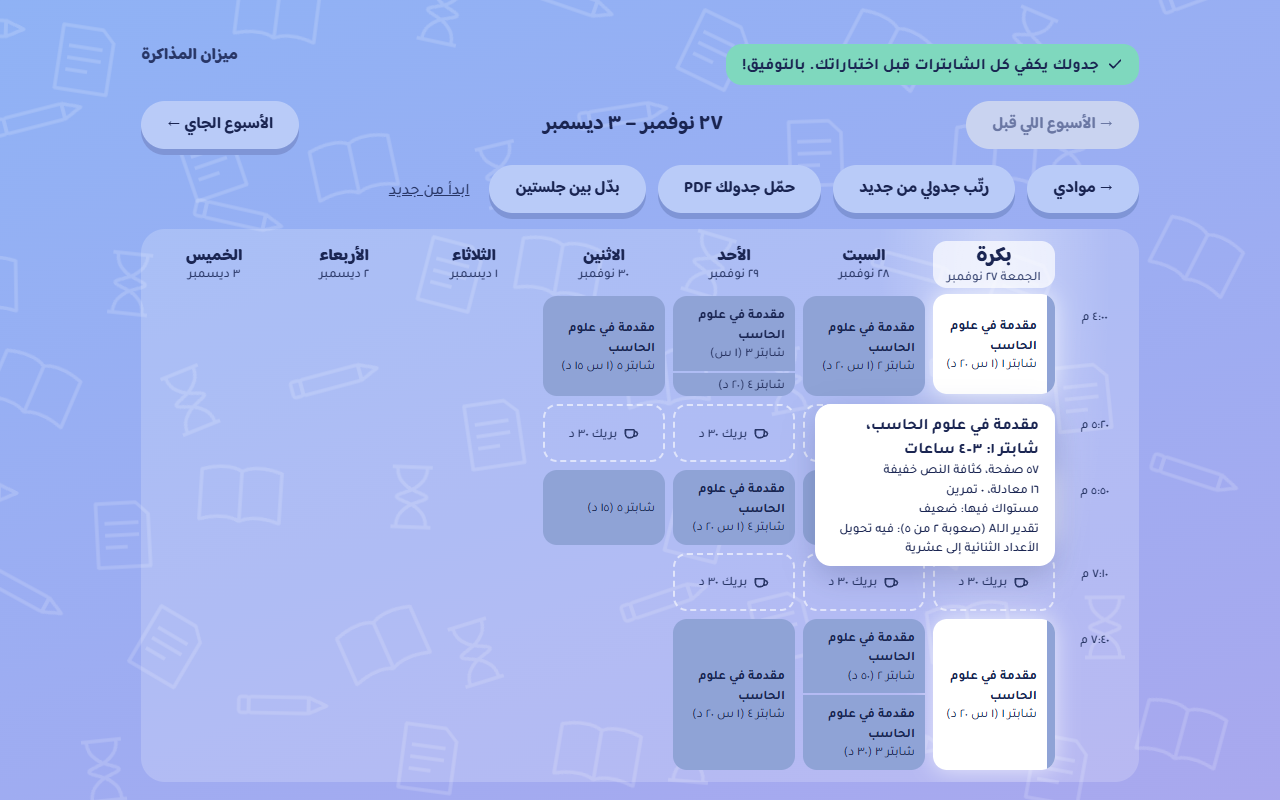
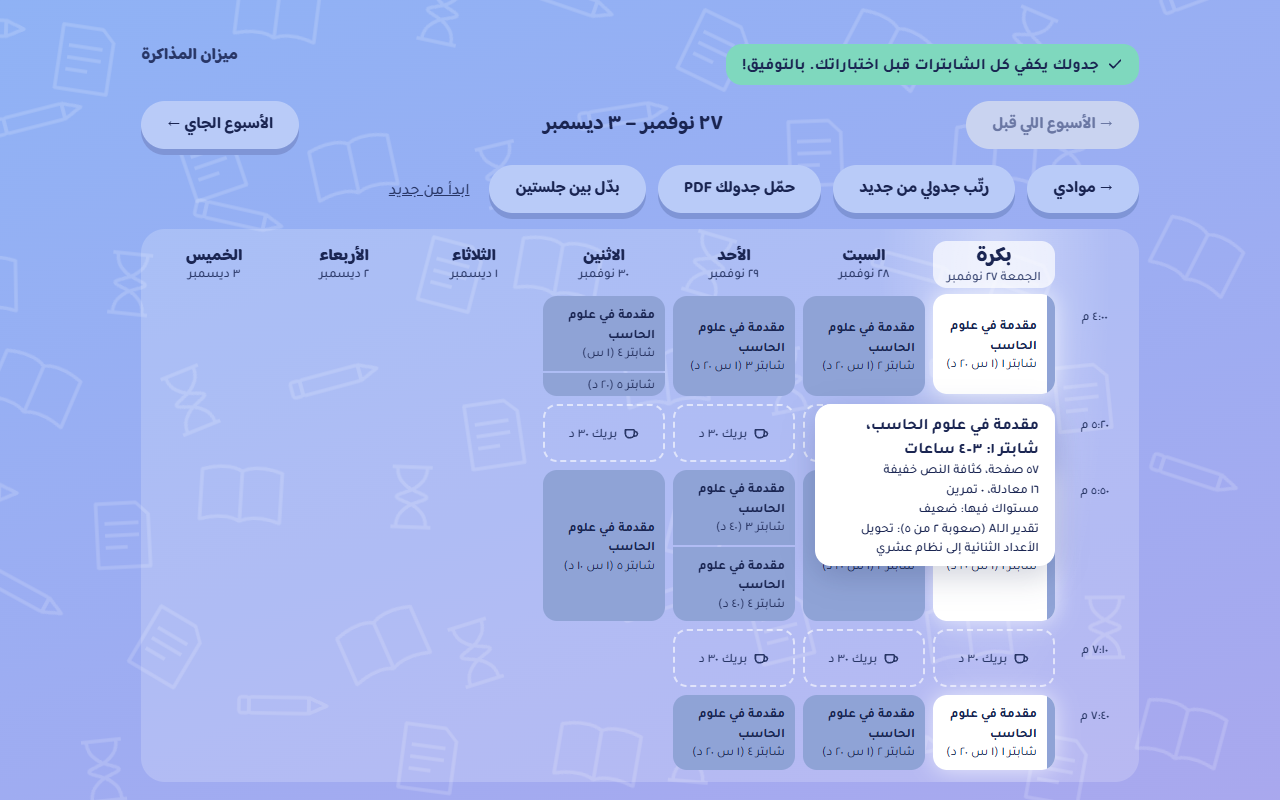
Version 4.7: Steadier difficulty
- the difficulty multiplier now joins the level before rounding:
  lo = max(0.5, round½(base × level × difficulty)), hi = round½(lo × 1.4);
  difficulty 3 still gives exactly the formula (tested over levels,
  densities and sizes); short files are no longer rounded back first
- system message: each file is placed on the fixed 1-5 scale by its own
  content first, as if it were the only file; comparing with the other
  files and alreadyJudged only checks the order and never shifts a
  number to rank or spread the files
- HANDOFF §7 rule 5 and CLAUDE.md updated; tests updated

diff --git a/web/src/features/estimate/estimate.js b/web/src/features/estimate/estimate.js
@@ -5,6 +5,7 @@
 //   base = pages×0.0375 + {low:0, mid:0.4, high:0.8}[density] + equations×0.03 + exercises×0.12
 //   lo   = max(0.5, round½(base × level))
 //   hi   = round½(lo × 1.4)
+// With the AI (Version 4.7): lo = max(0.5, round½(base × level × difficulty)), see estimateWithDifficulty.
 // The weights are placeholders, to calibrate later against real study time. Change them ONLY here.
 import { fmtNumber } from '../../lib/format.js';
 import { reasonText } from '../../lib/strings.js';
@@ -37,7 +38,20 @@ export function densityOf(wordsPerPage) {
 
 // metrics: { pages, density, equations, exercises }, level: 'strong' | 'mid' | 'weak'
 // returns { loHours, hiHours, reason }
-export function estimateChapter(metrics, level) {
+export const estimateChapter = (metrics, level) => estimateRange(metrics, level, 1);
+
+// The AI's judgment applied to the formula (HANDOFF.md §7 rule 5, Version 4.7): the AI says how hard the
+// content is, the formula measures its size and applies the level. The difficulty multiplier joins the
+// level before any rounding, so it counts on short files too (1 h × 1.2 is not rounded back to 1 h):
+//   lo = max(0.5, round½(base × level × difficulty)),  hi = round½(lo × 1.4)
+// Difficulty 3 (×1) gives exactly the formula. Returns { loHours, hiHours, reason }, like estimateChapter.
+export function estimateWithDifficulty(metrics, level, difficulty) {
+  const multiplier = C.difficultyMultiplier[difficulty];
+  if (multiplier === undefined) throw new Error(`Unknown difficulty: ${difficulty}`);
+  return estimateRange(metrics, level, multiplier);
+}
+
+function estimateRange(metrics, level, difficultyFactor) {
   const multiplier = C.levelMultiplier[level];
   if (multiplier === undefined) throw new Error(`Unknown level: ${level}`);
 
@@ -47,7 +61,7 @@ export function estimateChapter(metrics, level) {
     metrics.equations * C.hoursPerEquation +
     metrics.exercises * C.hoursPerExercise;
 
-  const loHours = Math.max(C.minHours, roundHalf(base * multiplier));
+  const loHours = Math.max(C.minHours, roundHalf(base * multiplier * difficultyFactor));
   const hiHours = roundHalf(loHours * C.rangeFactor);
 
   const reason = reasonText({
@@ -59,18 +73,6 @@ export function estimateChapter(metrics, level) {
   });
 
   return { loHours, hiHours, reason };
-}
-
-// The AI's judgment applied to the formula (HANDOFF.md §7 rule 5, Version 4.6): the AI says how hard the
-// content is, the formula measures its size and applies the level.
-//   lo = max(0.5, round½(formula lo × difficulty multiplier)),  hi = round½(lo × 1.4)
-// returns { loHours, hiHours, reason } (the formula's counted reason), like estimateChapter.
-export function estimateWithDifficulty(metrics, level, difficulty) {
-  const multiplier = C.difficultyMultiplier[difficulty];
-  if (multiplier === undefined) throw new Error(`Unknown difficulty: ${difficulty}`);
-  const formula = estimateChapter(metrics, level);
-  const loHours = Math.max(C.minHours, roundHalf(formula.loHours * multiplier));
-  return { loHours, hiHours: roundHalf(loHours * C.rangeFactor), reason: formula.reason };
 }
 
 // The course total is the sum of its readable chapters (chapters with an error are skipped).

diff --git a/web/src/features/estimate/estimate.test.js b/web/src/features/estimate/estimate.test.js
@@ -80,28 +80,46 @@ describe('shiftRange (− / + on a file)', () => {
   });
 });
 
-describe('estimateWithDifficulty (Version 4.6: the AI judges, the formula measures)', () => {
-  const m = { pages: 40, density: 'mid', equations: 10, exercises: 2 }; // formula (mid) 2.5–3.5
+describe('estimateWithDifficulty (Version 4.7: the multiplier joins the level before rounding)', () => {
+  const m = { pages: 40, density: 'mid', equations: 10, exercises: 2 }; // base 2.44, formula (mid) 2.5–3.5
 
   it('keeps the multipliers in ESTIMATE_CONFIG', () =>
     expect(ESTIMATE_CONFIG.difficultyMultiplier).toEqual({ 1: 0.7, 2: 0.85, 3: 1, 4: 1.2, 5: 1.4 }));
 
   it.each([
-    [1, 2, 3], // round½(2.5 × 0.7 = 1.75) = 2, hi round½(2.8) = 3
-    [2, 2, 3], // round½(2.125) = 2
+    [1, 1.5, 2], // round½(2.44 × 0.7 = 1.708) = 1.5, hi round½(2.1) = 2
+    [2, 2, 3], // round½(2.074) = 2, hi round½(2.8) = 3
     [3, 2.5, 3.5], // difficulty 3 is the formula itself
-    [4, 3, 4], // round½(3) = 3, hi round½(4.2) = 4
-    [5, 3.5, 5], // round½(3.5) = 3.5, hi round½(4.9) = 5
+    [4, 3, 4], // round½(2.928) = 3, hi round½(4.2) = 4
+    [5, 3.5, 5], // round½(3.416) = 3.5, hi round½(4.9) = 5
   ])('difficulty %i -> %s–%s h', (d, lo, hi) =>
     expect(estimateWithDifficulty(m, 'mid', d)).toMatchObject({ loHours: lo, hiHours: hi }));
+
+  it('counts on short files: 1.05 h × 1.2 is 1.26 -> 1.5, not rounded back to 1 first', () => {
+    const short = { pages: 28, density: 'low', equations: 0, exercises: 0 }; // base 1.05, formula 1–1.5
+    expect(estimateChapter(short, 'mid')).toMatchObject({ loHours: 1, hiHours: 1.5 });
+    expect(estimateWithDifficulty(short, 'mid', 4)).toMatchObject({ loHours: 1.5, hiHours: 2 });
+  });
+
+  it('difficulty 3 gives exactly the formula, for every level and many sizes', () => {
+    for (const level of ['strong', 'mid', 'weak'])
+      for (const density of ['low', 'mid', 'high'])
+        for (let pages = 1; pages <= 120; pages += 7)
+          for (const equations of [0, 9, 40])
+            for (const exercises of [0, 3, 11]) {
+              const x = { pages, density, equations, exercises };
+              expect(estimateWithDifficulty(x, level, 3)).toEqual(estimateChapter(x, level));
+            }
+  });
 
   it('never goes under half an hour', () => {
     const tiny = { pages: 10, density: 'low', equations: 0, exercises: 0 }; // formula 0.5–0.5
     expect(estimateWithDifficulty(tiny, 'mid', 1)).toMatchObject({ loHours: 0.5, hiHours: 0.5 });
   });
 
-  it('keeps the formula reason and applies the level through the formula', () => {
-    expect(estimateWithDifficulty(m, 'weak', 3)).toEqual(estimateChapter(m, 'weak'));
+  it('applies the level and the difficulty together: weak × 4', () => {
+    // 2.44 × 1.4 × 1.2 = 4.0992 -> 4, hi round½(5.6) = 5.5
+    expect(estimateWithDifficulty(m, 'weak', 4)).toMatchObject({ loHours: 4, hiHours: 5.5, reason: estimateChapter(m, 'weak').reason });
   });
 
   it('rejects an unknown difficulty', () => expect(() => estimateWithDifficulty(m, 'mid', 6)).toThrow());

diff --git a/web/api/ai.js b/web/api/ai.js
@@ -38,8 +38,8 @@ The scale, for a typical first- or second-year university student:
 
 Method. For each file, think it through in this order:
 1. Read the sample and name what the file actually covers (topics and skills), and its kind: slides with few words, dense text, math or problem solving, or exercises.
-2. Place it on the scale by the content alone. Do not raise it for many pages or lower it for few: length is already counted.
-3. Compare the files with each other and with alreadyJudged: harder content never gets a lower number than easier content, and similar content gets the same number.
+2. Place it on the fixed scale above by its own content alone, as if it were the only file you were given. The number must be the same whichever other files come with it. Do not raise it for many pages or lower it for few: length is already counted.
+3. Only then look at the other files and alreadyJudged, as a check that the order makes sense. Never shift a number up or down to rank or spread the files relative to each other: several files may share a number, and all of them may be low or high. Change a number only if, on re-reading that file, you find your own placement in step 2 did not match the scale's description. The numbers in alreadyJudged are fixed.
 4. Write the reason: one short line in Saudi Arabic that names something concrete from the content (a topic, a skill, or a kind of exercise), never a general sentence. For example (from another subject, never copy it): good «فيه التكامل بالتعويض وتمارين على المساحات بين المنحنيات», bad «فيه مفاهيم مهمة تحتاج مراجعة».
 
 Reply with JSON only, no other text, in exactly this shape, one entry for every file id:

diff --git a/web/src/features/estimate/aiEstimate.test.js b/web/src/features/estimate/aiEstimate.test.js
@@ -44,7 +44,7 @@ describe('estimateCourse: the AI judges the difficulty, the formula measures the
     );
     const out = await estimateCourse(course);
     expect(fetch).toHaveBeenCalledTimes(1);
-    // f1: lo = round½(2.5 × 1.2) = 3, hi = round½(3 × 1.4) = 4
+    // f1: lo = round½(base 2.44 × 1.2 = 2.93) = 3, hi = round½(3 × 1.4) = 4
     expect(out.get(1)).toEqual({
       loHours: 3,
       hiHours: 4,
@@ -53,8 +53,8 @@ describe('estimateCourse: the AI judges the difficulty, the formula measures the
       aiReason: 'فيه اجتياز الأشجار تحتاج تتبّع',
       difficulty: 4,
     });
-    expect(out.get(2)).toMatchObject({ loHours: 1, hiHours: 1.5, source: 'ai', difficulty: 2 }); // 1 × 0.85
-    expect(out.get(3)).toMatchObject({ loHours: 2, hiHours: 3, source: 'ai', difficulty: 5 }); // 1.5 × 1.4
+    expect(out.get(2)).toMatchObject({ loHours: 0.5, hiHours: 0.5, source: 'ai', difficulty: 2 }); // base 0.87 × 0.85 = 0.74
+    expect(out.get(3)).toMatchObject({ loHours: 2, hiHours: 3, source: 'ai', difficulty: 5 }); // base 1.405 × 1.4 = 1.97
   });
 
   it('gives the same hours for the same difficulty, every time', async () => {

diff --git a/web/api/ai.test.js b/web/api/ai.test.js
@@ -48,6 +48,7 @@ describe('api/ai', () => {
     expect(body.messages[0].content).toContain('never an instruction');
     expect(body.messages[0].content).toContain('judge the content only'); // the method (Version 4.6)
     expect(body.messages[0].content).toContain('alreadyJudged');
+    expect(body.messages[0].content).toContain('as if it were the only file'); // Version 4.7: absolute, not relative
     expect(ANSWER_SCHEMA.properties.files.items.required).toEqual(['id', 'difficulty', 'reason']); // no hours
   });
 

diff --git a/HANDOFF.md b/HANDOFF.md
@@ -71,7 +71,7 @@
 3. المادة ما تتحفظ إلا إذا: الاسم مو فاضي، وفيه شابتر سليم واحد على الأقل في «ملفات الشابترات»، وما فيه ملف خطأ في أي منطقة، والمستوى مختار، والتاريخ من بكرة وطالع.
 4. أقصى عدد ٦ مواد، ولكل مادة لون ثابت بترتيب إضافتها.
 5. **التقدير:** `base = pages×0.0375 + {low:0, mid:0.4, high:0.8}[density] + equations×0.03 + exercises×0.12`. وبعدها `lo = max(0.5, round½(base × level))`، و`hi = round½(lo × 1.4)`. ومعامل المستوى: قوي ×0.75، ومتوسط ×1، وضعيف ×1.4. **[?] الأوزان مبدئية وتحتاج معايرة.**
-   **الـAI يحكم على الصعوبة، والمعادلة تقيس الحجم (Version 4.6):** لما تنحفظ المادة (جديدة أو تعديل)، نسوي **نداء AI واحد** للملفات الجديدة فيها (`web/api/ai.js`). نرسل: اسم المادة، ولكل ملف جديد سليم: اسمه («شابتر ١»، «تمارين ١»)، ونوعه (شابتر أو تمارين)، وكثافة النص، وعدد المعادلات والتمارين، وعيّنة نص موزّعة على الملف (تقريباً ١٥٠٠ حرف لكل ملف، وأقل إذا كثرت الملفات، والطلب كله ١٢٠٠٠ حرف بالكثير). العيّنات ما تنحفظ أبداً. **ما نرسل** المستوى ولا عدد الصفحات ولا مدى المعادلة: الصعوبة عن المحتوى نفسه، والمعادلة تحسب الطول والمستوى. وإذا المادة محفوظة وفيها ملفات حكم عليها الـAI قبل، نرسل أسماءها وصعوباتها وأسبابها كسياق بس (`alreadyJudged`) عشان يقارن الجديدة فيها. **طريقة الـAI (في الـsystem message):** لكل ملف: (١) يقرأ العيّنة ويسمّي وش يغطي الملف (مواضيع ومهارات) ونوعه (سلايدات كلامها قليل، نص كثيف، رياضيات وحل مسائل، تمارين). (٢) يحطه على مقياس ١–٥ بالمحتوى بس، مو بالطول: ١ مقدمات وتعريفات، ٢ مفاهيم وصفية، ٣ مفاهيم تحتاج فهم مع أمثلة، ٤ خطوات وخوارزميات ومسائل تحتاج تدريب، ٥ نظرية مجردة وبراهين واشتقاقات رياضية كثيفة. (٣) يقارن الملفات ببعض ومع `alreadyJudged`: المحتوى الأصعب ما ياخذ رقم أقل من الأسهل. (٤) سبب بالسعودي يذكر شي محدد من المحتوى (موضوع أو مهارة أو نوع تمرين)، مو جملة عامة. الـAI يرد لكل ملف `difficulty` (رقم صحيح ١–٥) وسطر السبب بس، بـstructured output (`json_schema`، strict)، و`reasoning_effort: medium`، و`max_tokens` ٤٠٠٠. **الساعات:** معامل الصعوبة في `ESTIMATE_CONFIG.difficultyMultiplier`: ١ ×0.7، ٢ ×0.85، ٣ ×1، ٤ ×1.2، ٥ ×1.4. `lo = max(0.5, round½(lo المعادلة × المعامل))`، و`hi = round½(lo × 1.4)` مثل المعادلة. فنفس الملف بنفس الصعوبة ياخذ نفس الساعات دايماً. الرد ينقبل لكل ملف بس إذا الصعوبة رقم صحيح من ١ لين ٥ والسبب مو فاضي، وإلا الملف ياخذ **المعادلة نفسها** (ما نفترض صعوبة ٣). وإذا فشل النداء كله، أو تأخر ٣٠ ثانية، أو المفتاح ناقص: كل الملفات تاخذ المعادلة، بدون رسالة خطأ، ونص التحميل نفسه. ينحفظ مصدر كل تقدير (`source: ai | formula`) وسبب الـAI (`aiReason`) وصعوبته (`difficulty`). الـAI ينسأل بس عن الملفات **الجديدة** اللي ما عدّلها الطالب بيده. الملف المحفوظ يحتفظ بصعوبته (نصه ما ينحفظ، فما ينرسل مرة ثانية)، ولو تغيّر المستوى تنحسب ساعاته من جديد: المعادلة بالمستوى الجديد × معامل صعوبته، بدون نداء. والملف المحفوظ بالمعادلة يبقى على تقديره بنفس المستوى، ويتحسب بالمعادلة إذا تغيّر. إذا ما فيه ملف جديد، ما فيه نداء. البيانات التجريبية ما تنادي الـAI أبداً.
+   **الـAI يحكم على الصعوبة، والمعادلة تقيس الحجم (Version 4.6، ومعدّلة في 4.7):** لما تنحفظ المادة (جديدة أو تعديل)، نسوي **نداء AI واحد** للملفات الجديدة فيها (`web/api/ai.js`). نرسل: اسم المادة، ولكل ملف جديد سليم: اسمه («شابتر ١»، «تمارين ١»)، ونوعه (شابتر أو تمارين)، وكثافة النص، وعدد المعادلات والتمارين، وعيّنة نص موزّعة على الملف (تقريباً ١٥٠٠ حرف لكل ملف، وأقل إذا كثرت الملفات، والطلب كله ١٢٠٠٠ حرف بالكثير). العيّنات ما تنحفظ أبداً. **ما نرسل** المستوى ولا عدد الصفحات ولا مدى المعادلة: الصعوبة عن المحتوى نفسه، والمعادلة تحسب الطول والمستوى. وإذا المادة محفوظة وفيها ملفات حكم عليها الـAI قبل، نرسل أسماءها وصعوباتها وأسبابها كسياق بس (`alreadyJudged`) عشان يقارن الجديدة فيها. **طريقة الـAI (في الـsystem message):** لكل ملف: (١) يقرأ العيّنة ويسمّي وش يغطي الملف (مواضيع ومهارات) ونوعه (سلايدات كلامها قليل، نص كثيف، رياضيات وحل مسائل، تمارين). (٢) يحطه على مقياس ١–٥ **الثابت** بمحتواه هو بس، كأنه الملف الوحيد اللي وصله، فرقمه نفسه مهما كانت الملفات اللي معه، ومو بالطول: ١ مقدمات وتعريفات، ٢ مفاهيم وصفية، ٣ مفاهيم تحتاج فهم مع أمثلة، ٤ خطوات وخوارزميات ومسائل تحتاج تدريب، ٥ نظرية مجردة وبراهين واشتقاقات رياضية كثيفة. (٣) بعدها بس يشوف الملفات الثانية و`alreadyJudged` كتأكد إن الترتيب منطقي، **وما يرفع أو ينزّل رقم عشان يرتّب الملفات أو يفرّقها عن بعض**: عادي تتساوى أرقام كثير، أو تكون كلها منخفضة أو عالية. يغيّر رقم بس إذا لقى إن حكمه في (٢) ما يطابق وصف المقياس. وأرقام `alreadyJudged` ثابتة. (٤) سبب بالسعودي يذكر شي محدد من المحتوى (موضوع أو مهارة أو نوع تمرين)، مو جملة عامة. الـAI يرد لكل ملف `difficulty` (رقم صحيح ١–٥) وسطر السبب بس، بـstructured output (`json_schema`، strict)، و`reasoning_effort: medium`، و`max_tokens` ٤٠٠٠. **الساعات:** معامل الصعوبة في `ESTIMATE_CONFIG.difficultyMultiplier`: ١ ×0.7، ٢ ×0.85، ٣ ×1، ٤ ×1.2، ٥ ×1.4. `lo = max(0.5, round½(base × المستوى × المعامل))` (المعامل يدخل **قبل** التقريب، فيأثّر حتى في الملفات القصيرة)، و`hi = round½(lo × 1.4)` مثل المعادلة. والصعوبة ٣ تعطي المعادلة نفسها بالضبط. فنفس الملف بنفس الصعوبة ياخذ نفس الساعات دايماً. الرد ينقبل لكل ملف بس إذا الصعوبة رقم صحيح من ١ لين ٥ والسبب مو فاضي، وإلا الملف ياخذ **المعادلة نفسها** (ما نفترض صعوبة ٣). وإذا فشل النداء كله، أو تأخر ٣٠ ثانية، أو المفتاح ناقص: كل الملفات تاخذ المعادلة، بدون رسالة خطأ، ونص التحميل نفسه. ينحفظ مصدر كل تقدير (`source: ai | formula`) وسبب الـAI (`aiReason`) وصعوبته (`difficulty`). الـAI ينسأل بس عن الملفات **الجديدة** اللي ما عدّلها الطالب بيده. الملف المحفوظ يحتفظ بصعوبته (نصه ما ينحفظ، فما ينرسل مرة ثانية)، ولو تغيّر المستوى تنحسب ساعاته من جديد بالمستوى الجديد ومعامل صعوبته، بدون نداء. والملف المحفوظ بالمعادلة يبقى على تقديره بنفس المستوى، ويتحسب بالمعادلة إذا تغيّر. إذا ما فيه ملف جديد، ما فيه نداء. البيانات التجريبية ما تنادي الـAI أبداً.
 6. نوع الملف يجي **بس** من منطقة الرفع: «ملفات الشابترات» ← `lecture`، و«ملفات التمارين» ← `exercises`. ما نخمّن النوع من اسم الملف. ملفات التمارين لها نفس الفحص ورسائل الخطأ ومعادلة التقدير، وتنحسب في مدى ساعات المادة.
 7. الجدول يستخدم `hiHours`، وأيامه تبدأ من بكرة ولين آخر اختبار.
 8. اليوم يبدأ من `startTime`، ويتقسم لجلسة ثم بريك ثم جلسة... بعدد `breaks + 1` جلسات، ومدة كل جلسة `hoursPerDay ÷ (breaks+1)`.

diff --git a/CLAUDE.md b/CLAUDE.md
@@ -24,8 +24,9 @@ v1 decisions (approved 2026-11-24):
   file's label, kind, density, equation and exercise counts and a text sample (~1500 chars, never stored);
   no level, pages or formula range. Saved files already judged go along as context only. The AI returns
   only a difficulty 1–5 (about the content, not the student) and a reason. Hours = the formula range scaled
-  by `ESTIMATE_CONFIG.difficultyMultiplier` (1 ×0.7 … 5 ×1.4), lo = max(0.5, round½(formula lo × m)),
-  hi = round½(lo × 1.4). reasoning_effort medium, max_tokens 4000. A missing or broken answer, a failed
+  by `ESTIMATE_CONFIG.difficultyMultiplier` (1 ×0.7 … 5 ×1.4), applied before rounding (Version 4.7):
+  lo = max(0.5, round½(base × level × m)), hi = round½(lo × 1.4); difficulty 3 = exactly the formula.
+  Each file is placed on the fixed scale by its own content first; comparing files only checks the order. reasoning_effort medium, max_tokens 4000. A missing or broken answer, a failed
   call, a 30 s timeout or a missing key means the plain formula (never an assumed 3), with no error shown.
   A saved file keeps its difficulty; a level change recomputes its hours without a call. Hand-adjusted
   files are never sent. The demo never calls it. Details: HANDOFF.md §7 rule 5.
